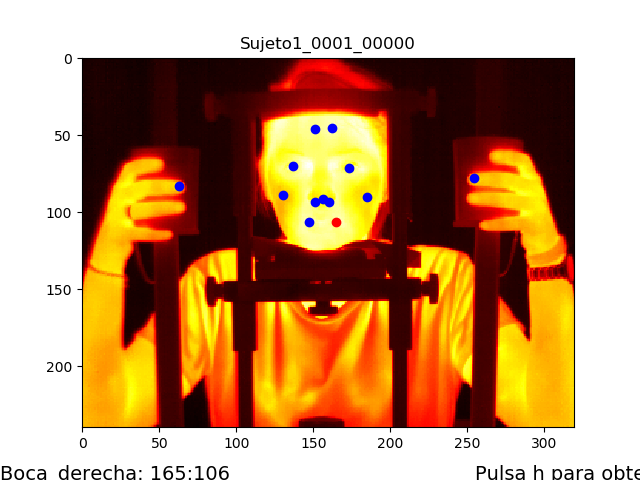
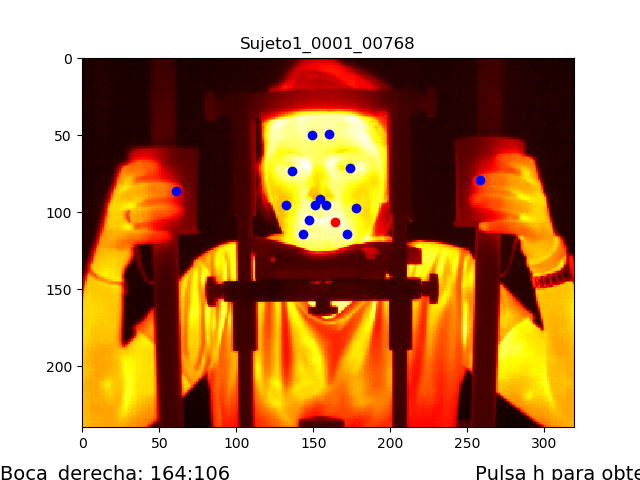
He añadido las ROIs del mentón

diff --git a/select_rois/select_rois.py b/select_rois/select_rois.py
@@ -12,8 +12,10 @@ ROIS = ["Nariz", "Fosa_nasal_izquierda", "Fosa_nasal_derecha",
         "Ojo_izquierdo", "Ojo_derecho",
         "Boca_izquierda", "Boca_derecha",
         "Mejilla_izquierda", "Mejilla_derecha",
-        "Frente_izquierda", "Frente_derecha"]
-KEYS = ["z", "n", "N", "d", "D", "j", "J", "b", "B", "m", "M", "r", "R"]
+        "Frente_izquierda", "Frente_derecha",
+        "Menton_izquierdo", "Menton_derecho"]
+KEYS = ["z", "n", "N", "d", "D", "j", "J", "b", "B", "m", "M", "r", "R",
+        "t", "T"]
 
 INIT_FIELDS = ["dirname", "men_ver", "paradigma", "image_name",
         #"image"
@@ -137,7 +139,6 @@ def get_mat(filename):
 
 def get_matnames(dirpath, removeFiles=[]):
     files = set(glob.glob(os.path.join(dirpath, '*.MAT')))
-    files = files.union(set(glob.glob(os.path.join(dirpath, '*.mat'))))
     rf = [os.path.join(dirpath, f) + '.MAT' for f in removeFiles]
     files -= set(rf)
     files = list(files)

diff --git a/select_rois/rois_from_seq.py b/select_rois/rois_from_seq.py
@@ -13,8 +13,10 @@ ROIS = ["Nariz", "Fosa_nasal_izquierda", "Fosa_nasal_derecha",
         "Ojo_izquierdo", "Ojo_derecho",
         "Boca_izquierda", "Boca_derecha",
         "Mejilla_izquierda", "Mejilla_derecha",
-        "Frente_izquierda", "Frente_derecha"]
-KEYS = ["z", "n", "N", "d", "D", "j", "J", "b", "B", "m", "M", "r", "R"]
+        "Frente_izquierda", "Frente_derecha",
+        "Menton_izquierdo", "Menton_derecho"]
+KEYS = ["z", "n", "N", "d", "D", "j", "J", "b", "B", "m", "M", "r", "R",
+        "t", "T"]
 
 INIT_FIELDS = ["dirname", "men_ver", "paradigma", "image_name",
         #"image"

diff --git a/README.md b/README.md
@@ -57,6 +57,8 @@ la región actual con puntos rojos.
     - M: mejilla derecha (marcar a la altura de la nariz y por debajo de la esquina externa del ojo)
     - r: lado izquierdo de la frente (por encima de la esquina interna del ojo izquierdo, a la altura de la mitad de la frente o un poco por debajo)
     - R: lado derecho de la frente (por encima de la esquina interna del ojo derecho, a la altura de la mitad de la frente o un poco por debajo)
+    - t: Parte izquierda del mentón
+    - T: Parte derecha del mentón
 - Ejemplo de imagen etiquetada
     - Está seleccionada la boca derecha, que aparece en rojo y cuyas coordenadas
     se muestran bajo la imagen
